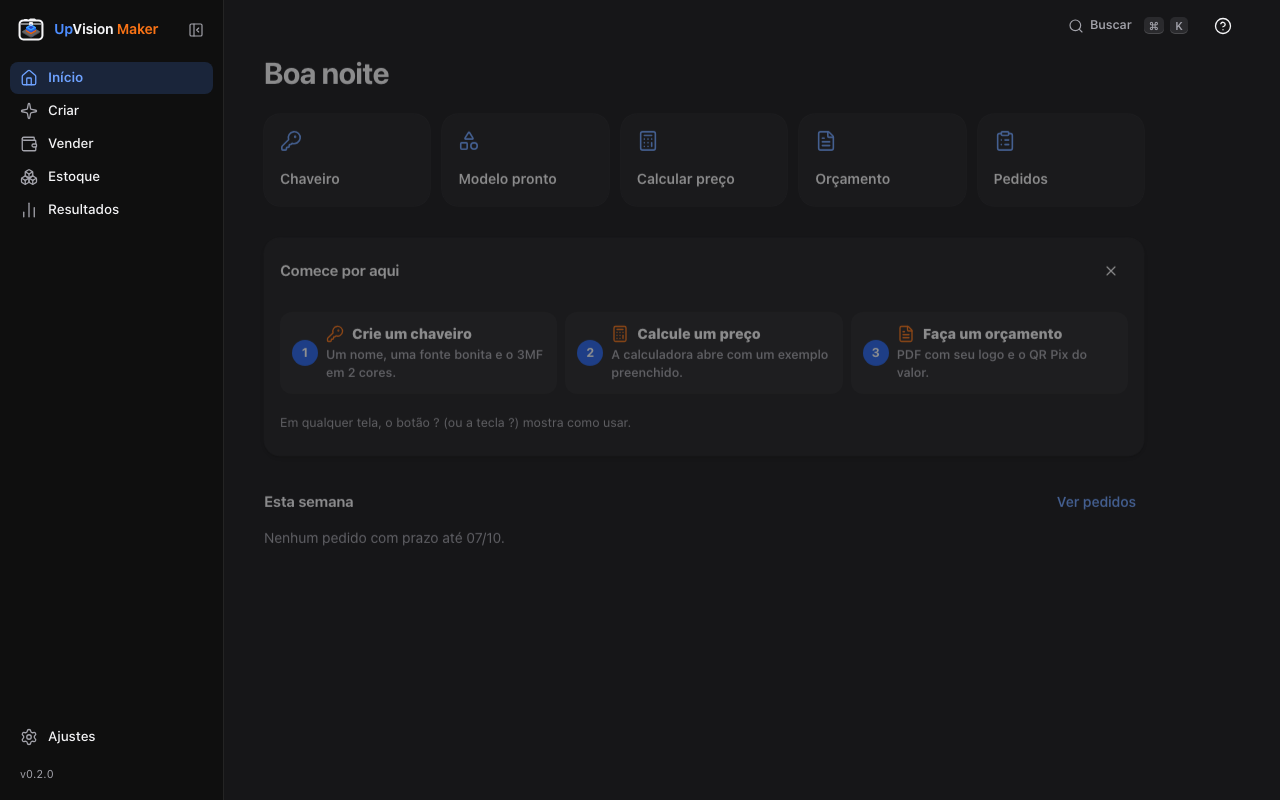
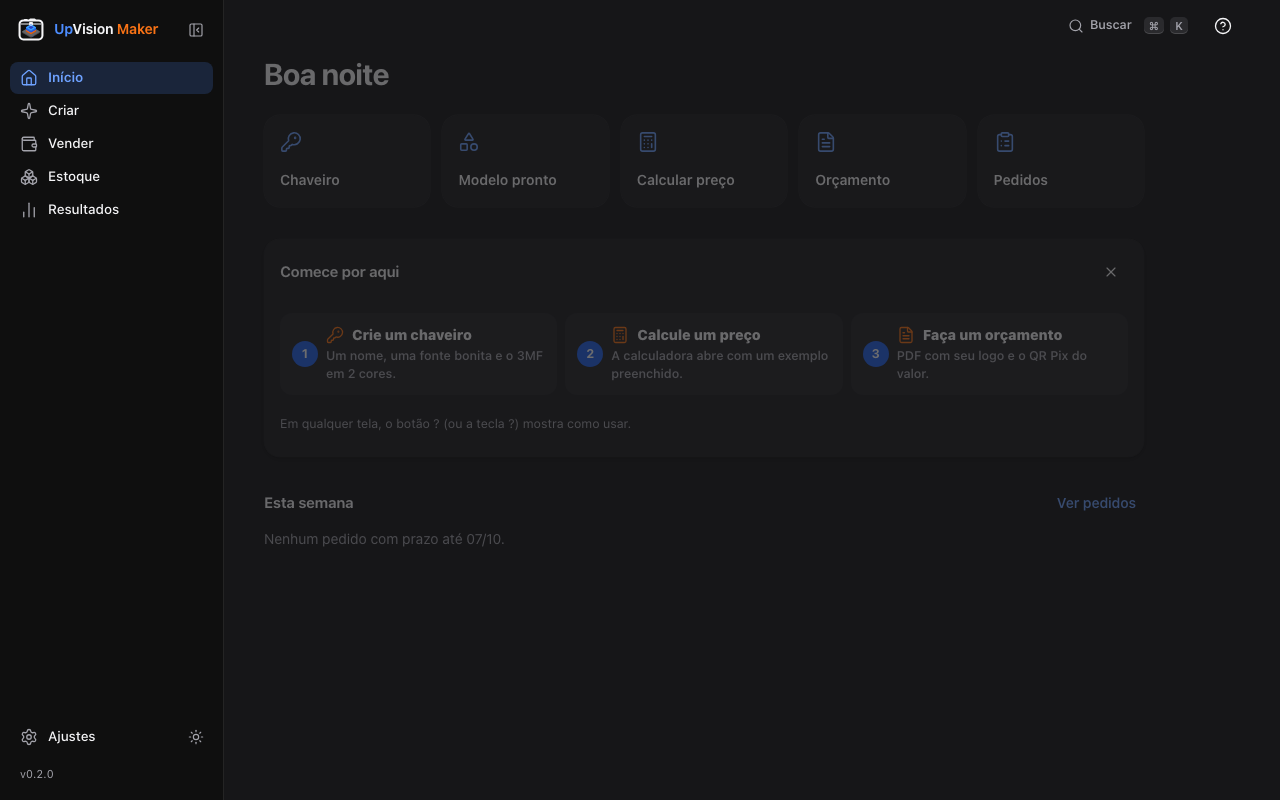
feat: claro/escuro de acesso fácil — sol/lua no rodapé da barra lateral, Ajustes → Aparência (Automático/Claro/Escuro), ⌘⇧L e ⌘K; troca a janela nativa junto, com cross-fade e lembrado (#152)

diff --git a/src/ui/theme.ts b/src/ui/theme.ts
@@ -1,0 +1,104 @@
+/**
+ * Claro/escuro (#152): Automático segue o sistema; Claro e Escuro valem só para o app e ficam lembrados neste computador.
+ * No app, o tema vai para a janela nativa (Tauri): a barra de título, o vidro (Mica/vibrancy) e o
+ * `prefers-color-scheme` do webview trocam juntos, então todo o CSS e as prévias 3D acompanham sem nada a mais.
+ */
+import { useSyncExternalStore } from "react";
+
+const KEY = "upvision:theme";
+export const THEMES = [
+  ["auto", "Automático"],
+  ["light", "Claro"],
+  ["dark", "Escuro"],
+] as const;
+export type Theme = (typeof THEMES)[number][0];
+const DARK = "(prefers-color-scheme: dark)";
+const FADE_WAIT_MS = 300;
+
+export function storedTheme(): Theme {
+  try {
+    const v = localStorage.getItem(KEY);
+    return THEMES.some(([t]) => t === v) ? (v as Theme) : "auto";
+  } catch {
+    return "auto";
+  }
+}
+
+let current: Theme = storedTheme();
+const listeners = new Set<() => void>();
+
+export const isDarkNow = () => typeof matchMedia === "function" && matchMedia(DARK).matches;
+
+/** Espera o webview trocar de esquema (ou desiste depois de FADE_WAIT_MS). */
+function schemeChanged(): Promise<void> {
+  return new Promise((ok) => {
+    if (typeof matchMedia !== "function") return ok();
+    const m = matchMedia(DARK);
+    const done = () => {
+      m.removeEventListener("change", done);
+      ok();
+    };
+    m.addEventListener("change", done);
+    setTimeout(done, FADE_WAIT_MS);
+  });
+}
+
+async function native(t: Theme): Promise<void> {
+  if (!("__TAURI_INTERNALS__" in window)) return; // no navegador o esquema é o do sistema
+  const { getCurrentWindow } = await import("@tauri-apps/api/window");
+  await getCurrentWindow().setTheme(t === "auto" ? null : t);
+}
+
+/** Aplica o tema (com cross-fade quando o webview sabe fazer) e, com `save`, lembra a escolha. */
+export async function applyTheme(t: Theme, { save = false, fade = false } = {}): Promise<void> {
+  current = t;
+  if (save) {
+    try {
+      localStorage.setItem(KEY, t);
+    } catch {
+      // só não lembra da próxima vez
+    }
+  }
+  listeners.forEach((l) => l());
+  const run = async () => {
+    await native(t);
+    await schemeChanged();
+  };
+  const reduce = typeof matchMedia === "function" && matchMedia("(prefers-reduced-motion: reduce)").matches;
+  const doc = document as Document & { startViewTransition?: (cb: () => Promise<void>) => { ready: Promise<void>; finished: Promise<void> } };
+  try {
+    if (fade && !reduce && doc.startViewTransition) {
+      const vt = doc.startViewTransition(run);
+      vt.ready.catch(() => {}); // trocou de novo antes de terminar: a transição anterior é pulada, o tema vale igual
+      await vt.finished;
+    } else await native(t);
+  } catch (e) {
+    console.error("Tema: não deu para trocar", e);
+  }
+}
+
+/** Alterna entre claro e escuro a partir do que está na tela agora (botão sol/lua e ⌘⇧L). */
+export const toggleTheme = () => applyTheme(isDarkNow() ? "light" : "dark", { save: true, fade: true });
+
+export function useTheme(): Theme {
+  return useSyncExternalStore(
+    (l) => {
+      listeners.add(l);
+      return () => listeners.delete(l);
+    },
+    () => current,
+  );
+}
+
+/** Esquema efetivo (claro ou escuro) para escolher o ícone do botão. */
+export function useDarkNow(): boolean {
+  return useSyncExternalStore(
+    (l) => {
+      if (typeof matchMedia !== "function") return () => {};
+      const m = matchMedia(DARK);
+      m.addEventListener("change", l);
+      return () => m.removeEventListener("change", l);
+    },
+    isDarkNow,
+  );
+}

diff --git a/src/ui/CommandPalette.tsx b/src/ui/CommandPalette.tsx
@@ -1,10 +1,11 @@
-import { BookOpen, CircleHelp, CornerDownLeft, Search } from "lucide-react";
+import { BookOpen, CircleHelp, CornerDownLeft, Moon, Search, Sun, SunMoon } from "lucide-react";
 import { useEffect, useLayoutEffect, useMemo, useRef, useState } from "react";
 import { getDb } from "../db";
 import { ARTICLES } from "../help/articles";
 import { GLOSSARY } from "../help/glossary";
 import type { PageDef } from "../pages";
 import { loadSearchItems, rank, type SearchItem } from "./search";
+import { applyTheme, type Theme } from "./theme";
 
 /** Artigos de ajuda (abrem a tela e a ajuda dela) e termos do glossário. */
 function helpItems(pages: PageDef[]): SearchItem[] {
@@ -21,6 +22,15 @@ function helpItems(pages: PageDef[]): SearchItem[] {
   const terms = GLOSSARY.map((t) => ({ id: `term-${t.id}`, title: `O que é ${t.term}?`, subtitle: t.text, group: "Ajuda", icon: BookOpen, pageId: "", help: `term:${t.id}`, keywords: t.match.join(" ") }));
   return [...articles, ...terms];
 }
+
+/** Claro/escuro pela busca (#152). */
+const THEME_ITEMS: SearchItem[] = (
+  [
+    ["dark", "Modo escuro", Moon, "tema aparência noite escuro dark"],
+    ["light", "Modo claro", Sun, "tema aparência dia claro light"],
+    ["auto", "Aparência automática", SunMoon, "tema aparência sistema automático claro escuro"],
+  ] as const
+).map(([t, title, icon, keywords]) => ({ id: `theme-${t}`, title, subtitle: t === "auto" ? "Segue o claro/escuro do sistema" : undefined, group: "Aparência", icon, pageId: "", keywords, run: () => void applyTheme(t as Theme, { save: true, fade: true }) }));
 
 type Props = { pages: PageDef[]; onPick: (item: SearchItem) => void; onClose: () => void };
 
@@ -54,7 +64,7 @@ export default function CommandPalette({ pages, onPick, onClose }: Props) {
     const screens: SearchItem[] = pages.map((p) => ({ id: `page-${p.id}`, title: p.label, subtitle: p.blurb, group: "Telas", icon: p.icon, pageId: p.id }));
     // ajuda (#84): só aparece buscando, para não encher a lista inicial
     const help: SearchItem[] = q.trim() ? helpItems(pages) : [];
-    return rank([...screens, ...records, ...help], q).slice(0, MAX_RESULTS);
+    return rank([...screens, ...records, ...help, ...(q.trim() ? THEME_ITEMS : [])], q).slice(0, MAX_RESULTS);
   }, [pages, records, q]);
   const current = Math.min(active, results.length - 1);
 

diff --git a/src/ui/Sidebar.tsx b/src/ui/Sidebar.tsx
@@ -1,7 +1,8 @@
-import { PanelLeftClose, PanelLeftOpen } from "lucide-react";
+import { Moon, PanelLeftClose, PanelLeftOpen, Sun } from "lucide-react";
 import { SECTIONS, type PageDef, type SectionDef } from "../pages";
 import { modKey } from "./shortcuts";
 import BrandMark, { Wordmark } from "./BrandMark";
+import { toggleTheme, useDarkNow } from "./theme";
 
 type Props = {
   pages: PageDef[];
@@ -88,7 +89,10 @@ export default function Sidebar({ pages, current, onNavigate, onNews, onSuggest,
       </div>
       <div className="scroll">{SECTIONS.filter((s) => s.id !== "settings").map(item)}</div>
       <div className="footer">
-        {SECTIONS.filter((s) => s.id === "settings").map(item)}
+        <div className="footer-row">
+          {SECTIONS.filter((s) => s.id === "settings").map(item)}
+          <ThemeButton />
+        </div>
         {onAbout && (
           <button className={`version ${updateAvailable ? "has-update" : ""}`} onClick={onAbout} aria-label={`Versão ${version ?? ""}${updateAvailable ? ", atualização disponível" : ""}: abrir Sobre`}>
             <span>v{version ?? "…"}</span>
@@ -97,5 +101,17 @@ export default function Sidebar({ pages, current, onNavigate, onNews, onSuggest,
         )}
       </div>
     </nav>
+  );
+}
+
+/** Sol/lua no rodapé (#152): alterna claro e escuro; Automático fica em Ajustes → Preferências → Aparência. */
+function ThemeButton() {
+  const dark = useDarkNow();
+  const label = dark ? "Modo claro" : "Modo escuro";
+  const shortcut = `${modKey()}${modKey() === "⌘" ? "⇧" : "+Shift+"}L`;
+  return (
+    <button type="button" className="ghost icon-only sm theme-toggle" onClick={() => void toggleTheme()} aria-label={label} title={`${label} (${shortcut})`} aria-keyshortcuts="Meta+Shift+L Control+Shift+L">
+      {dark ? <Sun aria-hidden /> : <Moon aria-hidden />}
+    </button>
   );
 }

diff --git a/src/ui/AppearanceCard.tsx b/src/ui/AppearanceCard.tsx
@@ -1,12 +1,23 @@
 import { useState } from "react";
 import { modKey } from "./shortcuts";
 import Segmented from "./Segmented";
+import { applyTheme, THEMES, useTheme } from "./theme";
 import { applyZoom, storedZoom, ZOOMS, type Zoom } from "./zoom";
 
-/** Aparência (#144): tamanho do texto do app inteiro. O tema claro/escuro segue o sistema (HIG). */
+/** Aparência: claro/escuro (#152) e tamanho do texto do app inteiro (#144). */
 export default function AppearanceCard() {
   const [zoom, setZoom] = useState<Zoom>(storedZoom);
+  const theme = useTheme();
   return (
+    <>
+    <section className="card stack">
+      <h3>Tema</h3>
+      <Segmented label="Tema" value={theme} options={THEMES} onChange={(t) => void applyTheme(t, { save: true, fade: true })} />
+      <span className="hint">
+        Automático segue o sistema. Também dá para trocar pelo sol/lua embaixo da barra lateral ou com {modKey()}
+        {modKey() === "⌘" ? "⇧" : "+Shift+"}L.
+      </span>
+    </section>
     <section className="card stack">
       <h3>Tamanho do texto</h3>
       <Segmented
@@ -19,8 +30,9 @@ export default function AppearanceCard() {
         }}
       />
       <span className="hint">
-        Aumenta tudo, sem quebrar as telas. Também dá para usar {modKey()} + e {modKey()} −. Claro e escuro seguem o sistema.
+        Aumenta tudo, sem quebrar as telas. Também dá para usar {modKey()} + e {modKey()} −.
       </span>
     </section>
+    </>
   );
 }

diff --git a/src/ui/shortcuts.ts b/src/ui/shortcuts.ts
@@ -1,4 +1,4 @@
-/** Atalhos globais: Cmd/Ctrl+K abre a busca, Cmd/Ctrl+N pede "novo" à página aberta, "?" abre a ajuda da tela, ⌘⌥S / Ctrl+Alt+S recolhe a barra lateral. */
+/** Atalhos globais: Cmd/Ctrl+K abre a busca, Cmd/Ctrl+N pede "novo" à página aberta, "?" abre a ajuda da tela, ⌘⌥S / Ctrl+Alt+S recolhe a barra lateral, ⌘⇧L / Ctrl+Shift+L alterna claro e escuro. */
 
 const NEW_EVENT = "upvision:new";
 
@@ -14,8 +14,13 @@ export function onNewShortcut(fn: () => void): () => void {
 /** Campo de digitação em foco: aí a tecla "?" é texto, não atalho. */
 const typing = (t: EventTarget | null) => !!(t as HTMLElement | null)?.closest?.("input, textarea, select, [contenteditable]");
 
-export function installShortcuts({ openPalette, openHelp, toggleSidebar }: { openPalette: () => void; openHelp?: () => void; toggleSidebar?: () => void }): () => void {
+export function installShortcuts({ openPalette, openHelp, toggleSidebar, toggleTheme }: { openPalette: () => void; openHelp?: () => void; toggleSidebar?: () => void; toggleTheme?: () => void }): () => void {
   const onKey = (e: KeyboardEvent) => {
+    if (toggleTheme && (e.metaKey || e.ctrlKey) && e.shiftKey && !e.altKey && e.code === "KeyL") {
+      e.preventDefault();
+      toggleTheme();
+      return;
+    }
     // e.code: com Option no Mac, e.key vira "ß"
     if (toggleSidebar && (e.metaKey || e.ctrlKey) && e.altKey && !e.shiftKey && e.code === "KeyS") {
       e.preventDefault();

diff --git a/tests/e2e/tema.e2e.ts b/tests/e2e/tema.e2e.ts
@@ -1,0 +1,27 @@
+import { expect, go, openApp, test } from "./tauri";
+
+test("claro/escuro (#152): sol/lua na barra lateral, ⌘⇧L, ⌘K e Ajustes → Aparência; vale de novo ao reabrir", async ({ page, tauri }) => {
+  await page.emulateMedia({ colorScheme: "light" });
+  await openApp(page);
+  const nav = page.getByRole("navigation", { name: "Navegação principal" });
+  await nav.getByRole("button", { name: "Modo escuro" }).click();
+  await expect.poll(() => tauri.theme).toBe("dark");
+
+  // a busca troca para Automático (a janela volta a seguir o sistema)
+  await page.keyboard.press("ControlOrMeta+K");
+  await page.getByRole("combobox").fill("automática");
+  await page.getByRole("option", { name: /Aparência automática/ }).click();
+  await expect.poll(() => tauri.theme).toBeNull();
+
+  await page.keyboard.press("ControlOrMeta+Shift+L");
+  await expect.poll(() => tauri.theme).toBe("dark");
+
+  await go(page, "Ajustes");
+  const group = page.getByRole("group", { name: "Tema" });
+  await expect(group.getByRole("button", { name: "Escuro" })).toHaveAttribute("aria-pressed", "true");
+  await group.getByRole("button", { name: "Claro" }).click();
+  await expect.poll(() => tauri.theme).toBe("light");
+  tauri.theme = undefined;
+  await page.reload();
+  await expect.poll(() => tauri.theme).toBe("light"); // reaplicado na abertura
+});

diff --git a/src/App.tsx b/src/App.tsx
@@ -25,6 +25,7 @@ import CommandPalette from "./ui/CommandPalette";
 import { setPendingOpen, type SearchItem } from "./ui/search";
 import { installShortcuts, modKey } from "./ui/shortcuts";
 import { useSidebarRail } from "./ui/useSidebarRail";
+import { toggleTheme } from "./ui/theme";
 import { CircleHelp, Search } from "lucide-react";
 import { articleFor } from "./help/articles";
 import HelpSheet from "./help/HelpSheet";
@@ -67,10 +68,11 @@ export default function App() {
   useEffect(() => (window as unknown as { upvisionSplashDone?: () => void }).upvisionSplashDone?.(), []);
   const sidebar = useSidebarRail();
   const toggleSidebar = sidebar.toggle;
-  useEffect(() => installShortcuts({ openPalette: () => setSearching(true), openHelp: () => void (articleFor(pageRef.current) && openHelp(pageRef.current)), toggleSidebar }), [toggleSidebar]);
+  useEffect(() => installShortcuts({ openPalette: () => setSearching(true), openHelp: () => void (articleFor(pageRef.current) && openHelp(pageRef.current)), toggleSidebar, toggleTheme: () => void toggleTheme() }), [toggleSidebar]);
 
   function pick(item: SearchItem) {
     setSearching(false);
+    if (item.run) return item.run();
     setPendingOpen(item.recordId !== undefined ? { pageId: item.pageId, recordId: item.recordId } : null);
     if (item.pageId) {
       navigate(item.pageId);

diff --git a/src/styles/layout.css b/src/styles/layout.css
@@ -87,3 +87,9 @@ main { position: relative; overflow: auto; min-width: 0; scroll-padding-top: 64p
 .sidebar .version:hover { color: var(--text); }
 .sidebar .version:focus-visible { outline: 3px solid var(--focus-ring); outline-offset: 1px; }
 .sidebar .update-pill { padding: 1px 8px; border-radius: var(--r-pill); background: var(--action-soft); color: var(--action-text); font-weight: 600; animation: fade-up var(--dur) var(--ease-out) both; }
+/* Ajustes + sol/lua na mesma linha (#152) */
+.sidebar .footer-row { display: flex; align-items: center; gap: 4px; }
+.sidebar .footer-row > :first-child { flex: 1; min-width: 0; }
+.theme-toggle { flex: none; color: var(--muted); }
+.app[data-sidebar="rail"] .sidebar:not(:hover):not(:has(:focus-visible)) .theme-toggle { display: none; }
+::view-transition-old(root), ::view-transition-new(root) { animation-duration: 200ms; }

diff --git a/tests/e2e/tauri.ts b/tests/e2e/tauri.ts
@@ -17,6 +17,8 @@ export type TauriMock = {
   /** Resposta de ask()/confirm(). */
   askAnswer: boolean;
   calls: string[];
+  /** Tema pedido à janela (#152): null = Automático. */
+  theme?: string | null;
   /** Zoom pedido ao webview (Tamanho do texto, #144). */
   zoom?: number;
   /** Resposta do updater (latest.json): null = sem atualização. */
@@ -201,6 +203,9 @@ function handler(m: TauriMock, cmd: string, a: Record<string, unknown> | null, h
       if (json === undefined) throw new Error("backup não encontrado");
       return json;
     }
+    case "plugin:window|set_theme":
+      m.theme = (args.value as string | null) ?? null;
+      return null;
     case "plugin:webview|set_webview_zoom":
       m.zoom = Number(args.value);
       return null;

diff --git a/src/splash.ts b/src/splash.ts
@@ -5,6 +5,10 @@
  */
 import mark from "./assets/brand/mark.svg?raw";
 import "./styles/splash.css";
+import { applyTheme, storedTheme } from "./ui/theme";
+
+// tema escolhido no app (#152) já na abertura, antes do 1º paint
+if (storedTheme() !== "auto") void applyTheme(storedTheme());
 
 const KEY = "upvision:splash";
 const SAFETY_MS = 4000;

diff --git a/src/ui/search.ts b/src/ui/search.ts
@@ -20,6 +20,8 @@ export type SearchItem = {
   keywords?: string;
   /** Abre esta ajuda depois de ir para a página (artigo = id da tela; "term:<id>" = glossário) (#84). */
   help?: string;
+  /** Ação em vez de tela (Modo escuro, Modo claro… #152). */
+  run?: () => void;
 };
 
 /**
